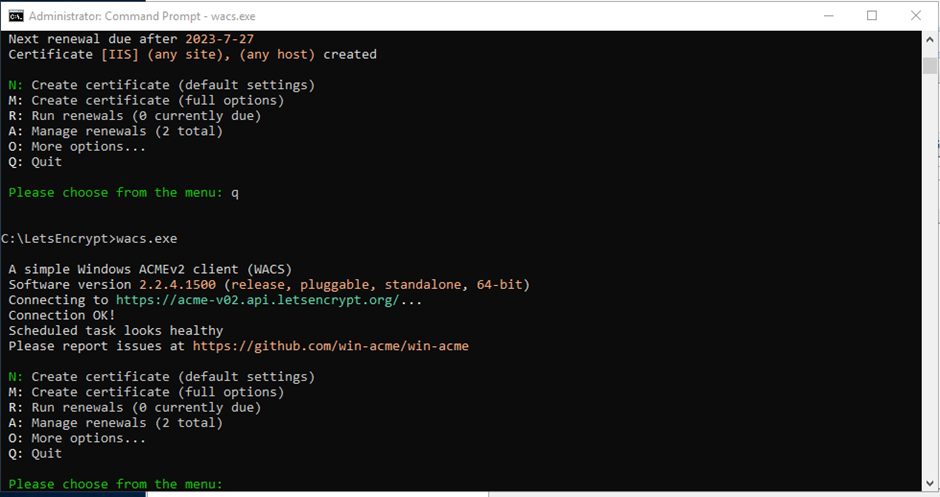
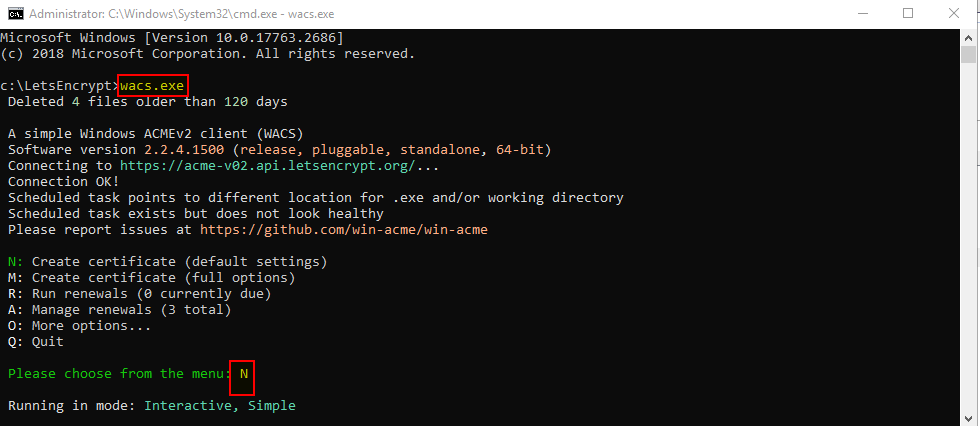
Extend letsencrypt setup in substore setup.

Changed region(s): [[0.0, 0.0, 1.0, 1.0]]

diff --git a/docs/web/store/storeSettings.md b/docs/web/store/storeSettings.md
@@ -207,11 +207,22 @@ Set A or CNAME records to point domain → server IP.
 
 ## 11. Let’s Encrypt SSL  
 
-Use win-acme to generate and install certificate.
+Use win-acme to generate and install certificate. Start command prompt first.
 
 <img src="https://raw.githubusercontent.com/Cadify/Cadify-User-Manual/main/docs/web/store/images/letsencrypt_1.png" style="max-width:100%; border:1px solid #ccc; border-radius:6px;">
 
+Then run letsencrypt with wacs.exe.
+
 <img src="https://raw.githubusercontent.com/Cadify/Cadify-User-Manual/main/docs/web/store/images/letsencrypt_2.png" style="max-width:100%; border:1px solid #ccc; border-radius:6px;">
+
+Create new certificate (N).
 
 <img src="https://raw.githubusercontent.com/Cadify/Cadify-User-Manual/main/docs/web/store/images/letsencrypt_3.png" style="max-width:100%; border:1px solid #ccc; border-radius:6px;">
 
+Set the site identifier (main.ovalas.no -> 4). Then Pick all binding (A). It is important to create certificate for all bindings. Then select the main host (main.ovalas.no -> 5).
+
+<img src="https://raw.githubusercontent.com/Cadify/Cadify-User-Manual/main/docs/web/store/images/letsencrypt_4.png" style="max-width:100%; border:1px solid #ccc; border-radius:6px;">
+
+Then continue that selection (y), overwrite settings (y) and replace existing task (y).
+
+<img src="https://raw.githubusercontent.com/Cadify/Cadify-User-Manual/main/docs/web/store/images/letsencrypt_6.png" style="max-width:100%; border:1px solid #ccc; border-radius:6px;">
